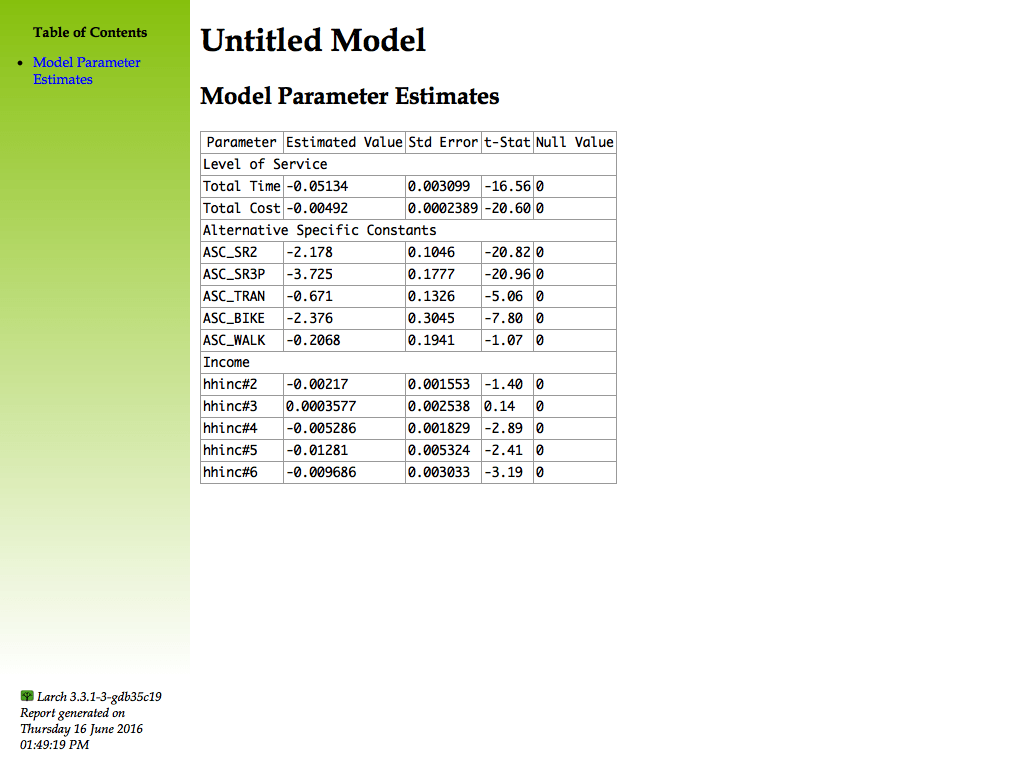
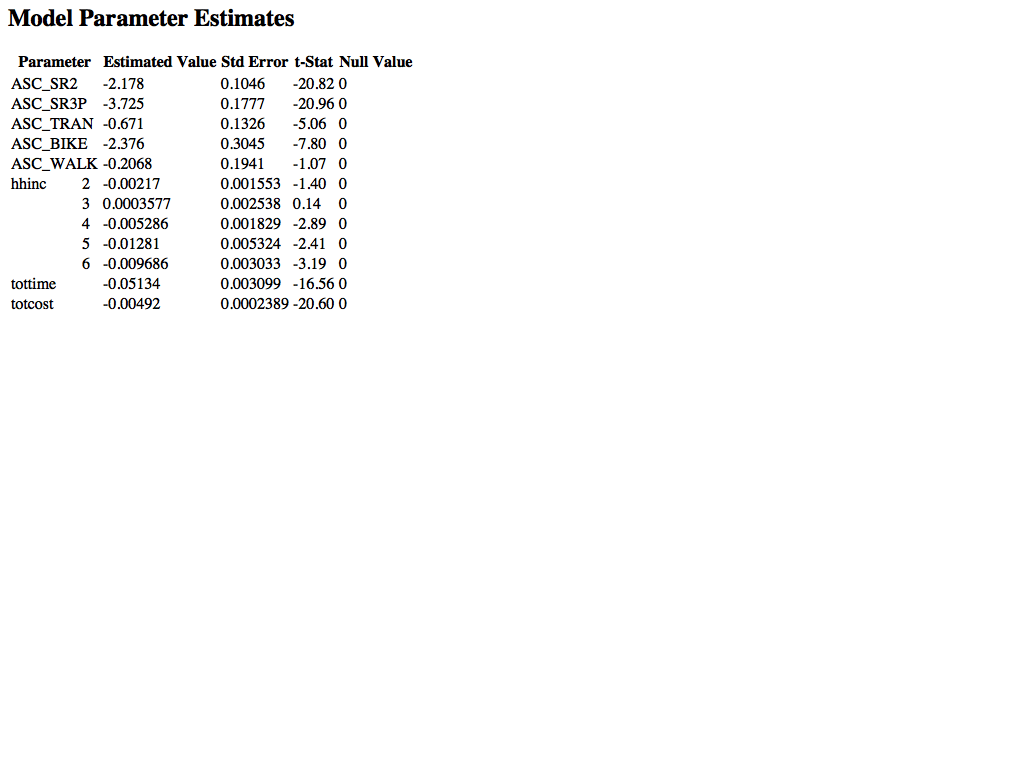
xhtml_params

Changed region(s): [[0.0, 0.0, 0.5938, 0.8125], [0.0, 0.9062, 0.1562, 1.0]]

diff --git a/py/model_reporter/xhtml.py b/py/model_reporter/xhtml.py
@@ -478,7 +478,7 @@ class XhtmlModelReporter():
 			else:
 				self._model.new_xhtml_section(val, key)
 	
-		def __call__(self, *args, force_Elem=False, filename=None, view_on_exit=False, **kwarg):
+		def __call__(self, *args, force_Elem=False, filename=None, view_on_exit=False, return_html=False, **kwarg):
 			div = Elem('div')
 			for arg in self._model.iter_cats(args):
 				if isinstance(arg, Elem):
@@ -489,16 +489,46 @@ class XhtmlModelReporter():
 					div << arg()
 				elif isinstance(arg, list):
 					div << self( *(self._model._inflate_cats(arg)), force_Elem=True )
-			if filename is not None:
-				with XHTML(quickhead=self._model, view_on_exit=view_on_exit, filename=filename, **kwarg) as f:
+			if filename is not None or return_html:
+				with XHTML(quickhead=self._model, view_on_exit=view_on_exit, filename=filename or None, **kwarg) as f:
 					f << div
+					if return_html:
+						temphtml = f.dump()
+					else:
+						temphtml = None
+				if temphtml is not None:
+					return temphtml
 			if not force_Elem and self._return_xhtml:
 				return ElementTree.tostring(div, encoding="utf8", method="html")
 			return div
 
 	@property
 	def xml(self):
-		"""A :class:`XmlManager` interface for the model."""
+		"""A :class:`XmlManager` interface for the model.
+		
+		This method creates an xhtml report on the model. Call it with 
+		any number of string arguments to include those named report sections.
+		
+		All other parameters must be passed as keywords.
+		
+		Other Parameters
+		----------------
+		filename : None or str
+			If None (the default) no file is generated. 
+			Otherwise, this should name a file into which the html
+			report will be written.  If that file already exists it will by default not 
+			be overwritten, instead a new filename will be spooled off the given name.
+		view_on_exit : bool
+			If true, the html file will be [attempted to be] opened in Chrome or your default
+			web broswer.  This feature may not be compatible with all platforms.
+		return_html : bool
+			Return the html report (as bytes) instead of the top level div Elem for the
+			report content.
+			
+		Returns
+		-------
+		Elem or bytes
+		"""
 		return XhtmlModelReporter.XmlManager(self)
 
 	xhtml = xml
@@ -1118,7 +1148,6 @@ class XhtmlModelReporter():
 		Example
 		-------
 		>>> from larch.util.categorize import Categorizer, Renamer
-		>>> from larch.util.xhtml import XHTML
 		>>> m = larch.Model.Example(1, pre=True)
 		>>> param_groups = [
 		... 	Categorizer('Level of Service',
@@ -1127,12 +1156,9 @@ class XhtmlModelReporter():
 		... 	Categorizer('Alternative Specific Constants', 'ASC.*'),
 		... 	Categorizer('Income', 'hhinc.*'),
 		... ]
-		>>> with XHTML(quickhead=m) as f:
-		... 	f.append( m.xhtml_title()  )
-		... 	f.append( m.xhtml_params(param_groups) )
-		... 	html = f.dump()
+		>>> html = m.xhtml_params().tostring()
 		>>> html
-		b'<!DOCTYPE html ...>'
+		b'<...>'
 		
 		.. image:: render_xhtml_params_html.png
 			:class: htmlrendering

diff --git a/py/util/xhtml.py b/py/util/xhtml.py
@@ -240,7 +240,7 @@ class XHTML():
 		self.body = Elem(tag="body")
 		self.root << self.head
 		self.root << self.body
-		if filename is None:
+		if filename is None or filename is False:
 			import io
 			filemaker = lambda: io.BytesIO()
 		elif filename.lower() == "temp":
@@ -481,6 +481,26 @@ class XHTML():
 		if insert:
 			self.body.append(xsign.close())
 		return xsign.close()
+
+	def finalize(self, toc=True, sign=True):
+		if sign:
+			self.sign(True)
+		if toc:
+			self.toc_iframe(True)
+
+		c = self.root.copy()
+
+		if sign:
+			s = self.root.find(".//div[@class='larch_signature']/..")
+			if s is not None:
+				s.remove(s.find(".//div[@class='larch_signature']"))
+		if toc:
+			s = self.root.find(".//div[@class='table_of_contents']/..")
+			if s is not None:
+				s.remove(s.find(".//div[@class='table_of_contents']"))
+		return c
+
+
 	def dump(self, toc=True, sign=True):
 		if sign:
 			self.sign(True)
